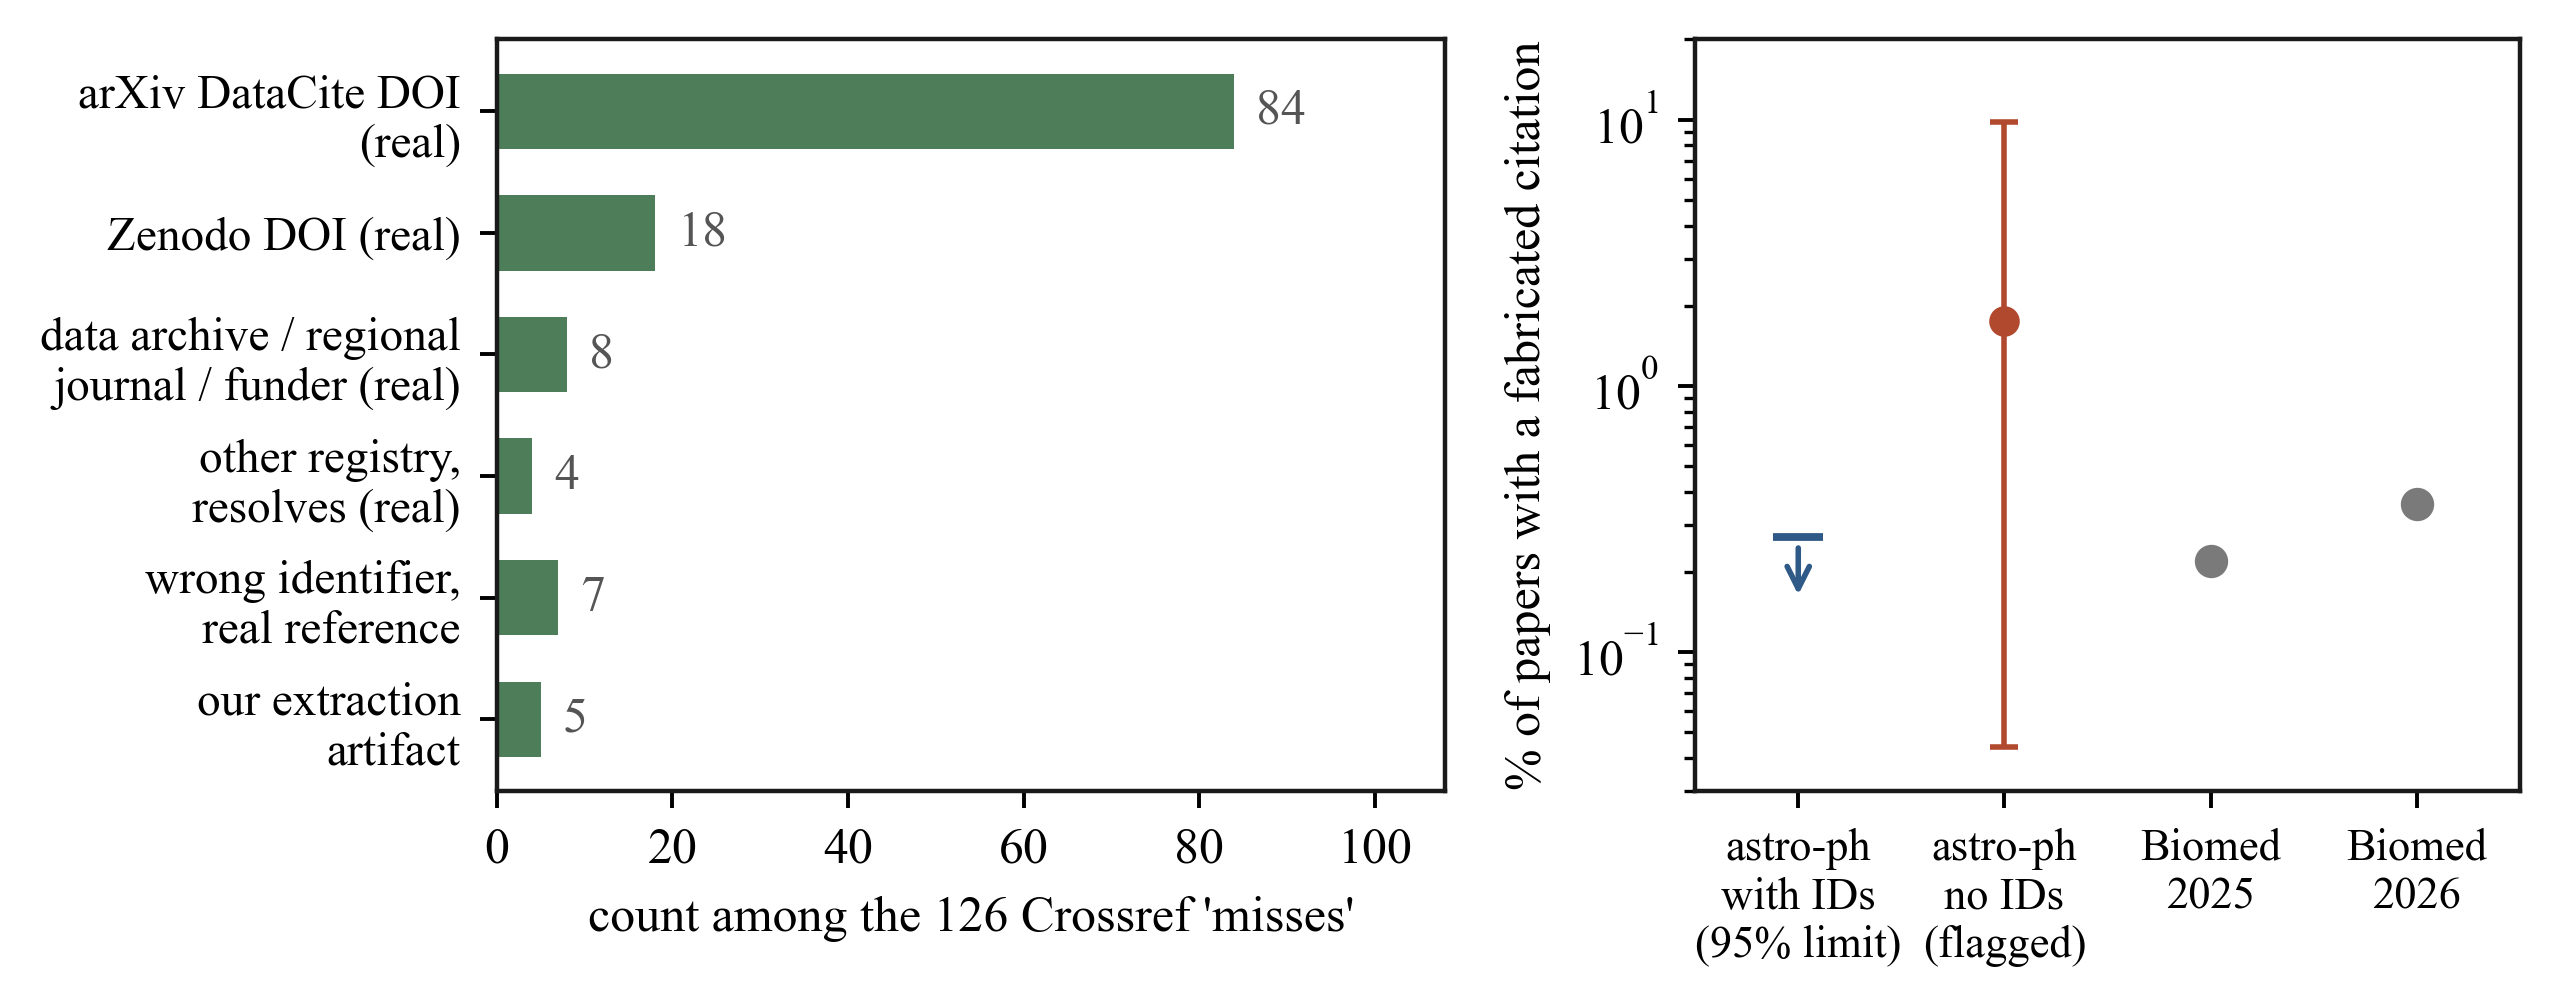
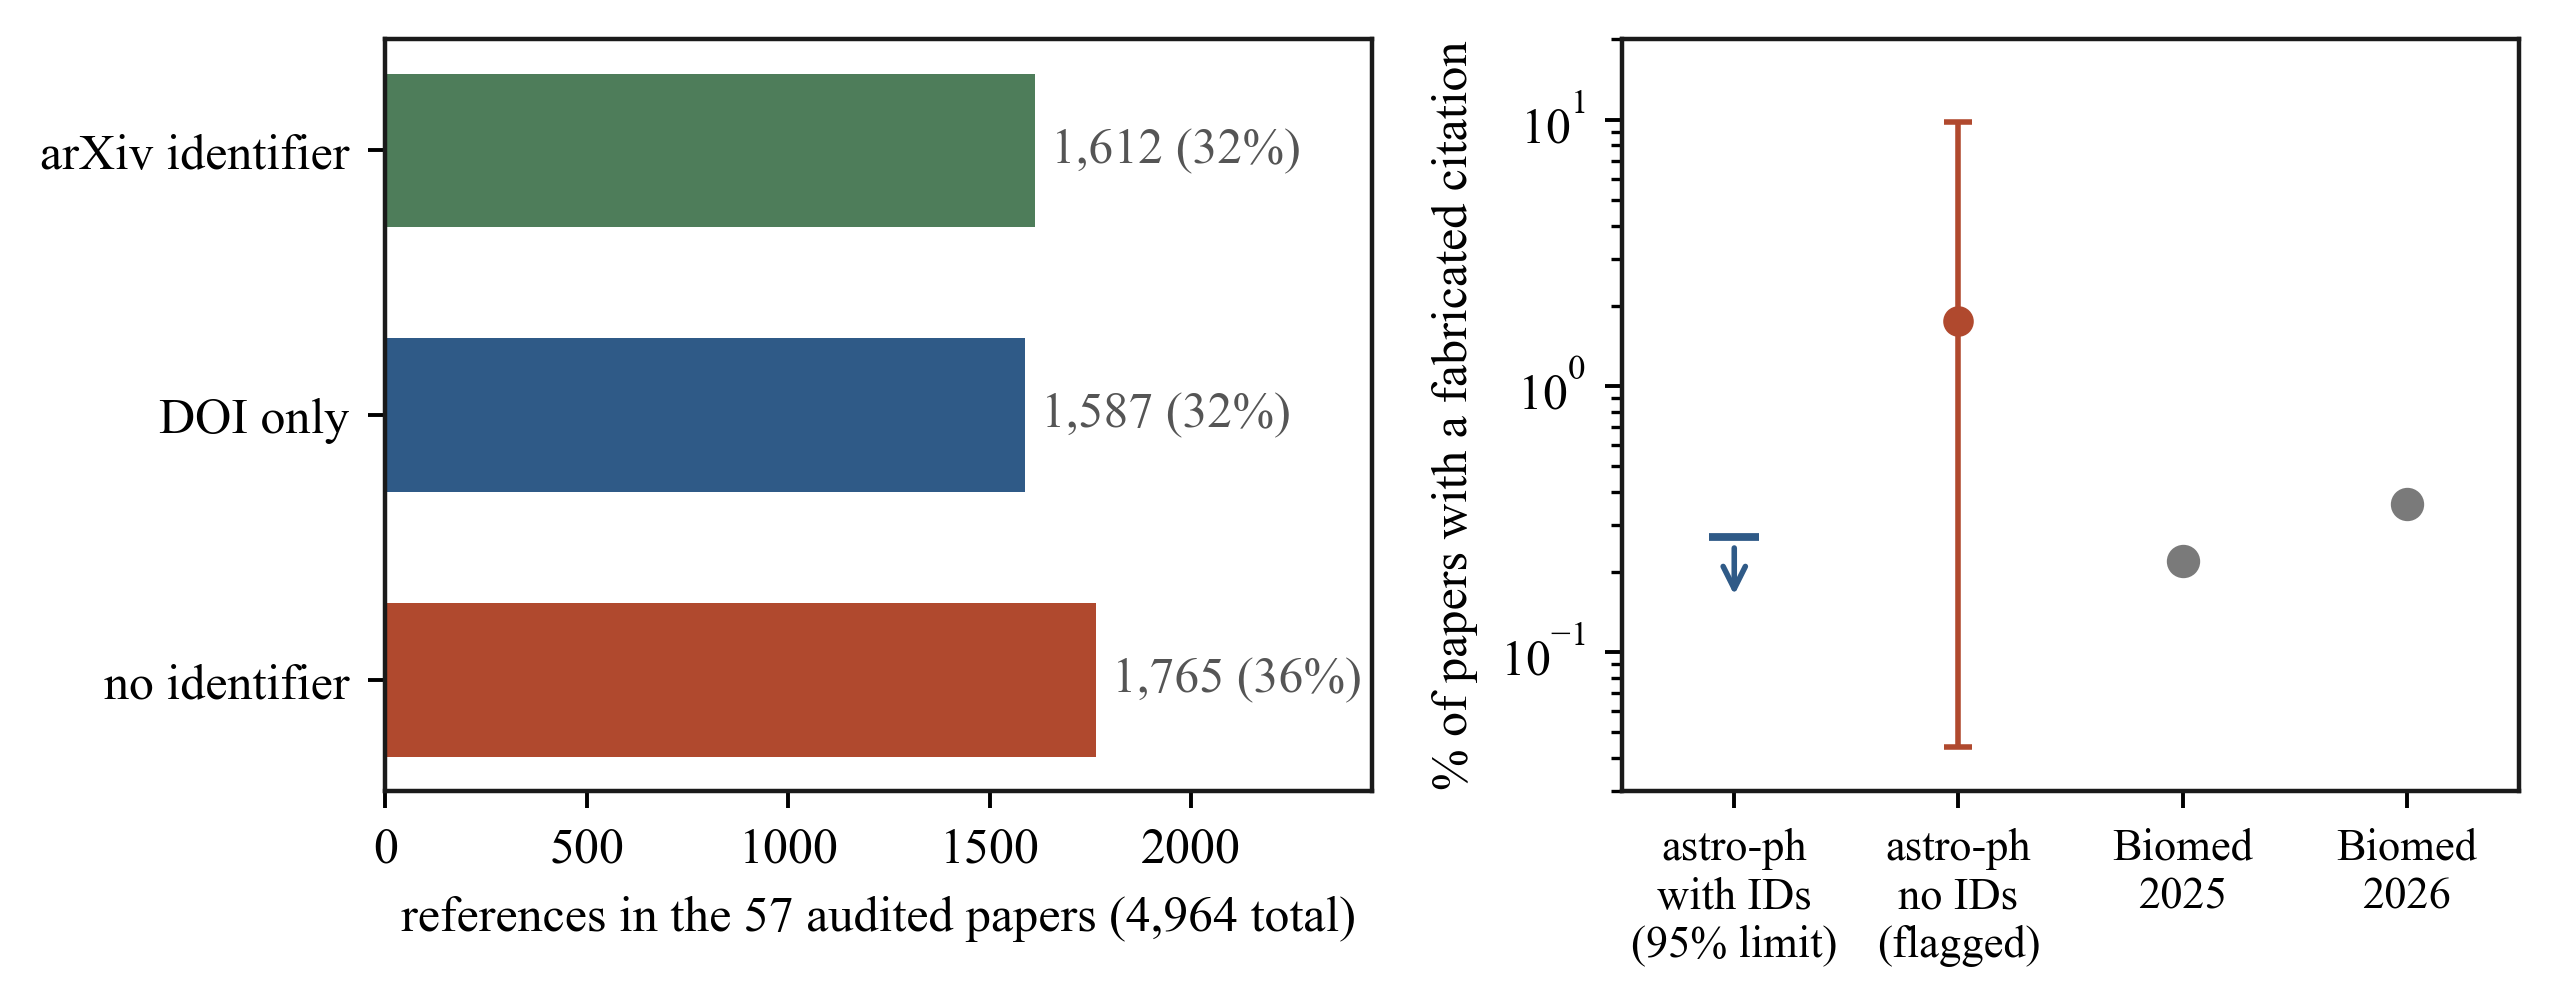
Fig 5 left panel replaced with identifier census of 4,964 references; Crossref-miss taxonomy moved to Extended Data Fig 7

diff --git a/src/plots3.py b/src/plots3.py
@@ -162,8 +162,8 @@ def fig11_geography():
     footer(fig, "Data: NASA ADS aff: x abs:/ack: queries, 2025  |  aff: matches any affiliation (multi-country collabs double-counted)")
     fig.savefig(os.path.join(FIGS, "fig11_equity_map.png"), bbox_inches="tight"); plt.close(fig)
 
-def fig12_citation_integrity():
-    """C3: astronomy's citation integrity vs the fabrication problem elsewhere."""
+def fig13_crossref_taxonomy():
+    """ED: classification of the 126 Crossref misses (all real works)."""
     st = json.load(open(os.path.join(DATA, "c3_stats25.json")))
     cls = st["classification"]
     order = ["arXiv DataCite (real)", "Zenodo (real)",
@@ -178,20 +178,43 @@ def fig12_citation_integrity():
                  "extraction artifact": "our extraction\nartifact"}
     labels = [disp_name[k] for k in order if cls.get(k)]
     vals = [cls[k] for k in order if cls.get(k)]
-    n_arxiv_inst = st["arxiv_instances"]; n_doi_checked = st["doi_checked"]
-
-    fig, (axL, axR) = plt.subplots(1, 2, figsize=(6.5, 2.6), gridspec_kw={"width_ratios":[1.15,1]})
-    # LEFT: classification of the Crossref misses (none is a fabrication)
-    from pantera_style import no_minor_y, no_minor_x
+    from pantera_style import no_minor_y
+    fig, ax = plt.subplots(figsize=(4.8, 2.6))
     ys = list(range(len(labels)))
-    axL.barh(ys, vals, color=C["green"], height=0.62)
+    ax.barh(ys, vals, color=C["green"], height=0.62)
     for yi, v in zip(ys, vals):
-        axL.text(v+2.5, yi, str(v), va="center", fontsize=9, color="#555555")
+        ax.text(v+2.5, yi, str(v), va="center", fontsize=9, color="#555555")
+    no_minor_y(ax)
+    ax.set_yticks(ys); ax.set_yticklabels(labels, fontsize=8.5)
+    ax.invert_yaxis()
+    ax.set_xlim(0, 108)
+    ax.set_xlabel(f"count among the {sum(vals)} Crossref 'misses'", fontsize=9)
+    fig.tight_layout()
+    fig.savefig(os.path.join(FIGS, "fig13_crossref_taxonomy.png"), bbox_inches="tight")
+    plt.close(fig)
+
+def fig12_citation_integrity():
+    """C3: identifier census of references + fabrication rates per population."""
+    st = json.load(open(os.path.join(DATA, "c3_stats25.json")))
+    r7 = json.load(open(os.path.join(DATA, "r7_summary.json")))["counts"]
+    fig, (axL, axR) = plt.subplots(1, 2, figsize=(6.5, 2.6), gridspec_kw={"width_ratios":[1.1,1]})
+    # LEFT: identifier census of the 4,964 references in the audited papers
+    from pantera_style import no_minor_y, no_minor_x
+    census = [("arXiv identifier", r7["with_arxiv"], C["green"]),
+              ("DOI only", r7["with_doi_only"], C["blue"]),
+              ("no identifier", r7["no_id"], C["vermillion"])]
+    tot = sum(v for _, v, _ in census)
+    ys = list(range(len(census)))
+    for yi, (lab, v, col) in zip(ys, census):
+        axL.barh(yi, v, color=col, height=0.58)
+        axL.text(v + 40, yi, f"{v:,} ({v/tot*100:.0f}%)", va="center",
+                 fontsize=9, color="#555555")
     no_minor_y(axL)
-    axL.set_yticks(ys); axL.set_yticklabels(labels, fontsize=8.5)
+    axL.set_yticks(ys); axL.set_yticklabels([c[0] for c in census], fontsize=9)
     axL.invert_yaxis()
-    axL.set_xlim(0, 108)
-    axL.set_xlabel(f"count among the {sum(vals)} Crossref 'misses'", fontsize=9)
+    axL.set_xlim(0, 2450)
+    axL.set_xlabel(f"references in the {57} audited papers ({tot:,} total)", fontsize=9)
+
     # RIGHT: fabrication rate per paper, log scale; identifier-bearing limit,
     # the identifier-free detection (wide Poisson interval), and biomed rates
     cats = ["astro-ph\nwith IDs\n(95% limit)", "astro-ph\nno IDs\n(flagged)",
